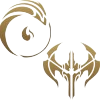
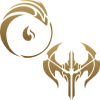
Fixing images

Changed region(s): [[0.0, 0.0, 1.0, 1.0], [0.21, 0.24, 0.36, 0.42]]

diff --git a/src/components/Ficha/index.jsx b/src/components/Ficha/index.jsx
@@ -20,7 +20,7 @@ const Ficha = () => {
       </div>
       <div className='h-[15vh] flex justify-center gap-5'>
         <div className="w-[25vw] bg-[url('https://raw.githubusercontent.com/Init-soga/RPG/main/src/assets/roles/fighter.png')] bg-center bg-contain bg-no-repeat"></div>
-        <div className="w-[25vw] bg-[url('https://raw.githubusercontent.com/Init-soga/RPG/main/src/assets/regions/noxus.png')] bg-center bg-contain bg-no-repeat"></div>
+        <div className="w-[25vw] bg-[url('https://raw.githubusercontent.com/Init-soga/RPG/main/src/assets/regions/ionia-noxus.png')] bg-center bg-contain bg-no-repeat"></div>
       </div>
       <span className='p-5 text-center text-[#C89B3C] flex justify-center'>
         Lorem ipsum dolor sit amet consectetur adipisicing elit. Fuga sint
